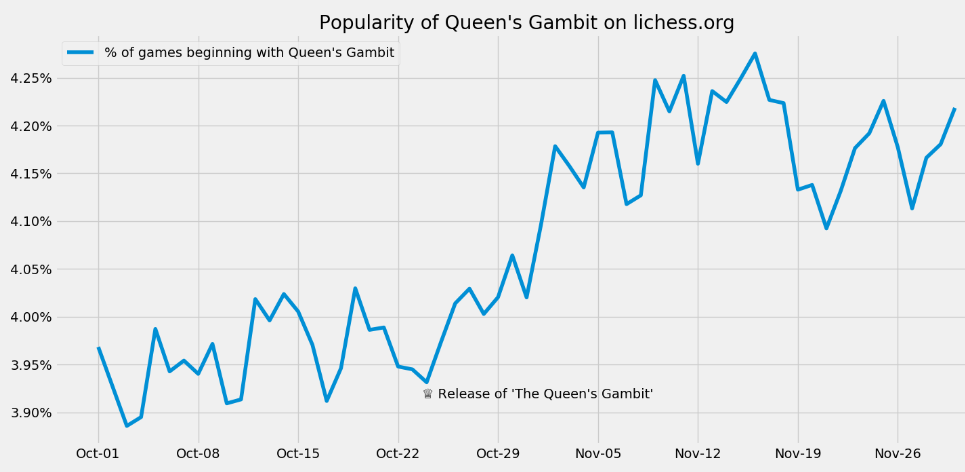
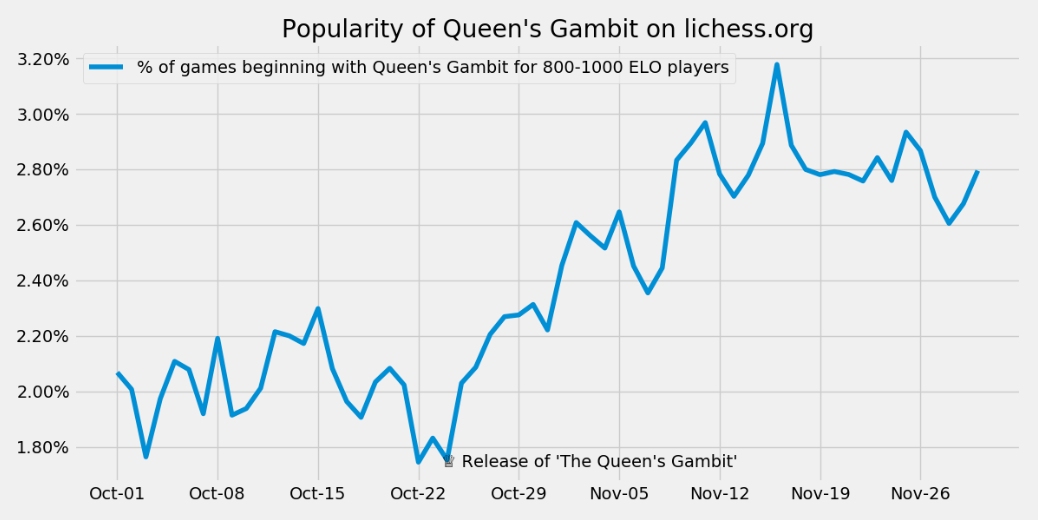
added elo filtering

diff --git a/games.py b/games.py
@@ -1,0 +1,58 @@
+import sqlite3
+import pandas as pd
+import os
+
+
+class Games:
+    """An object which contains a record chess games
+
+    Reads chess game metadata from a database allowing a custom
+    selection that can be filtered by opening moves and elo. Also calculates
+    the relative daily popularity of every 3 move opening.
+
+    Attributes:
+        opening: the 3 opening moves played in the game
+        opening_name: the plain text name for the opening (if available)
+        elo: the elo band to filter the results on
+        conn: connection to sqlite3 database
+        cursor: cursor to execute transactions on the database
+        df: a DataFrame object containing the chess games, openings of interest
+    """
+    cur_dir = os.path.dirname(os.path.realpath(__file__))
+
+    def __init__(self, db_name, opening=None, elo=None, opening_name=None):
+        """ Initialize a Games object containing filtered chess game metadata
+
+        Args:
+            db_name (str): name of the database with chess game metadata.
+            opening (str, optional): the 3 set move to filter the results by
+            elo (str, optional): the elo band to filter the results on
+            opening_name (str, option): the plain text name of the opening line
+        """
+        self.opening = opening
+        self.opening_name = opening_name
+        self.elo = elo
+        self.db_name = os.path.dirname(__file__) + db_name
+        self.conn = sqlite3.connect(self.db_name)
+        self.cursor = self.conn.cursor()
+        self.df = Games.generate_games_df(self, self.opening, self.elo)
+        Games.calculate_daily_opening_popularity(self)
+        self.conn.commit()
+        self.conn.close()
+
+    def generate_games_df(self, opening=None, elo=None):
+        """Read from database to DataFrame attribute the games and openings of interest"""
+        query = 'select * from lichess_openings_summary'
+        if opening is not None and elo is not None:
+            query = query + ' WHERE opening="' + opening + '" AND WhiteELO="' + elo + '"'
+        elif opening is not None:
+            query = query + ' WHERE opening="' + opening + '"'
+        elif elo is not None:
+            query = query + ' WHERE WhiteELO="' + elo + '"'
+
+        df = pd.read_sql_query(query, self.conn)
+        return df
+
+    def calculate_daily_opening_popularity(self):
+        """calculate the relative popularity of each opening"""
+        self.df['opening_percentage_played'] = 100 * (self.df['openingCount'] / self.df['dailyGamesSum'])

diff --git a/main.py b/main.py
@@ -5,6 +5,7 @@ import matplotlib.pyplot as plt
 import numpy as np
 import sqlite3
 from datetime import datetime
+from games import Games
 from matplotlib.ticker import PercentFormatter
 plt.style.use('fivethirtyeight')
 
@@ -14,36 +15,39 @@ def main():
     Outputs the findings to a line graph.
     """
     cfg = get_configs()
-    conn = sqlite3.connect('/data/lichess_bak.db')
-    cursor = conn.cursor()
-    opening = "['e4', 'e5', 'Nf3']"
-    opening_name = 'King\'s Knight'
-    df = pd.read_sql_query('SELECT * from lichess_openings_summary WHERE Opening == (?)', conn, params=(opening,))
-    conn.close()
-    df['opening'] = 100*(df['openingCount'] / df['dailyGamesSum'])
+    elo_range = '800-1000'
+    opening_name = 'Queen\'s Gambit'
+    opening = "['d4', 'd5', 'c4']"
 
-    plot_popularity(df, opening_name)
+    g = Games('/data/lichess.db', elo=elo_range, opening=opening)
+
+    plot_popularity(g.df, opening_name, elo=elo_range)
 
 
-def plot_popularity(df, opening_name):
+def plot_popularity(df, opening_name, elo=None):
     """ Creates a line plot of the relative popularity of an opening over a defined
     period of time.
     Args:
         df: the DataFrame containing the date axis and column named 'opening' with
             the relative popularity of the move per each day
         opening_name: The plain text name of the opening for use in the legend
+        elo: the elo range of the players using the opening for use in the legend
         """
     x = df['date'].tolist()
     x = [datetime.strptime(d, '%Y.%m.%d') for d in x]
     x = [datetime.strftime(d, '%b-%d') for d in x]
 
-    fig, ax = plt.subplots(figsize=(15, 7))
+    fig, ax = plt.subplots(figsize=(12, 6))
+    # fig, ax = plt.subplots()
     plt.xticks(np.arange(0, 62, 7))
-    ax.plot(x, df['opening'])
+    ax.plot(x, df['opening_percentage_played'])
     plt.gca().yaxis.set_major_formatter(PercentFormatter(100, decimals=2))
-    plt.legend(labels=['% of games beginning with ' + opening_name], loc=2)
+    if elo is not None:
+        plt.legend(labels=['% of games beginning with ' + opening_name + ' for ' + elo + ' ELO players'], loc=2)
+    else:
+        plt.legend(labels=['% of games beginning with ' + opening_name], loc=2)
     plt.title('Popularity of ' + opening_name + ' on lichess.org')
-    plt.annotate("♕ Release of 'The Queen\'s Gambit'", (22.7, 3.915))
+    plt.annotate("♕ Release of 'The Queen\'s Gambit'", (22.6, 1.73))
     plt.show()
     exit()
 

diff --git a/pgn_parser.py b/pgn_parser.py
@@ -21,7 +21,7 @@ class PGNs:
     def generate_liches_db(self, games):
         """Method to read a lichess .pgn text file of games to a sqlite database.
         Args:
-            games: plain text format of recorded chess games.
+            games: PGN text file of recorded chess games.
         """
         with open(games) as f:
             with tqdm.tqdm(total=os.path.getsize(games), unit_scale=0.00000001) as pbar:
@@ -62,23 +62,24 @@ def get_moves(self, line):
 
 
 def write_to_db(self, line, a, b, c, d, e):
+    """Once at the final line of metadata for a particular game (the pgn notation), write the row
+    containing the relevant game information to the database.
+    """
     if line[:1] == '1' or line[:2] == ' 0' or line[:2] == ' 1':
         self._cursor.execute('INSERT INTO lichess VALUES(?,?,?,?,?)', (a, b, c, d, e))
 
 
 def add_moves(moves):
+    """If available, get the first three moves from the PGN chess notation of the game"""
     opening_moves = []
-    # get first move
     try:
         opening_moves.append(moves[1])
     except IndexError:
         pass
-    # get second move
     try:
         opening_moves.append(moves[6])
     except IndexError:
-        pass    
-    # get third move
+        pass
     try:
         opening_moves.append(moves[12])
     except IndexError:
